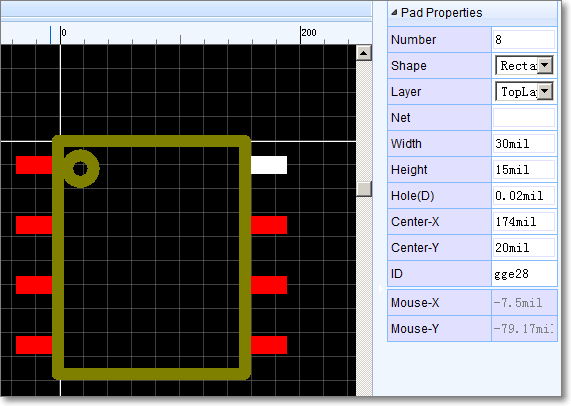
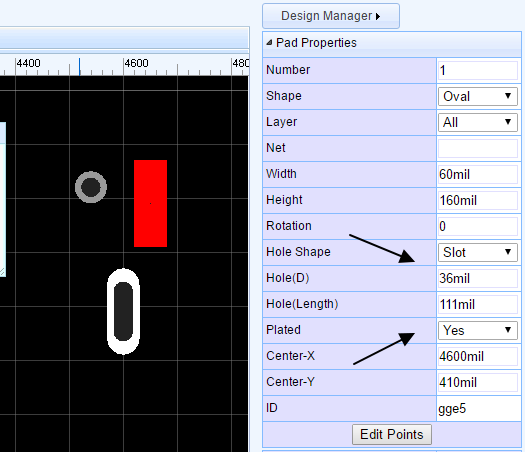
add new v 3.10.x

diff --git a/Tutorial/new-v-3.10.md b/Tutorial/new-v-3.10.md
@@ -1,0 +1,98 @@
+# What is new in the V3.10.X  
+ 
+
+The new version is V3.10.x. EasyEDA has lots of new features in the version. Try it via [https://easyeda.com/editor](https://easyeda.com/editor).
+
+
+![](./images/V3.10.x.png)
+ 
+
+
+
+##Better Mac User Experience 
+Mac users can use Chrome, EasyEDA works better under Chrome than Safari.
+
+**1. Pan**
+ 
+ **When Using Mouse**
+Hold down  the right click and move your mouse, the canvas will be panned.
+If you use the Magic Mouse, You need to enable the right click at first via this video. https://www.youtube.com/watch?v=ekzIoAxXSHE,
+
+**When Using Touchpad **
+ Hold down the `SHIFT` key, then move your one finger, the canvas will pan in horizontal direction.
+ 
+Hold down the `Control` key, then move your one finger, the canvas will pan in  Vertical  direction. 
+
+**2. Zoom in and zoom out**
+
+ **When Using Mouse**
+Scroll your middle button of mouser or Magic mouse.
+
+ **When Using Touchpad **
+Sliding your finger up  zoom in, and sliding down  zoom out.
+
+## New Pad attribute.
+add `Slot ` and `Plated` attributes for pad's hole like bellow image
+![](images/image51.png)
+
+
+## Components 
+The new components will save your lots of time. Press hot key `SHIFT+F`  or click it via toolbar ![](./images/components-button.png) 
+In the new components dialog, it is easy to select the right components via tags, and you can set tags for your components.
+
+### New Dialog
+   When creating a schematic lib, there is an input dialog, you would better to set the sourcing information, such as how to buy it and datasheet. If you don't like to add these information, you can skip this and add these later.
+
+![](./images/newComponent.png) 
+
+
+### New Component attribute
+  EasyEDA adds a `Mounted` attribute at the component, if you don't want to assembly that components, you can set it to `NO` like bellow image. If set `Mounted` to `NO`, we don't list it to the BOM.
+![](./images/mounted.png) 
+
+### Components search dialog
+If you selected the `EasyEDA Components`, you will find a dialog like bellow image.
+ ![](./images/componentsDialog.png) 
+EasyEDA team spend lots of time to build these components/packages, we recommend you to use these components, because we have sent the right packages for you and you can order the components from EasyEDA.  More important, we can solder these components too.
+There are some other categories, you can try to explore. 
+  ![](./images/Component-cat.png) 
+
+
+## New search filter
+ When updating a package, you may want to just  search package/footprint, so you can use the filter. `AXIAL doctype:pcb` the filter doctype:pcb will just search PCB package with the name AXIAL. 
+  `doctype:sch` will help you to just search components without package.
+
+ ![](./images/setpackage.png) 
+ 
+ 
+## Synchronous schematic and PCB
+ You can convert schematic to PCB bellow toolbar, if you modify the schematics and want to update the PCB again, you can click the `update PCB` button. 
+  ![](./images/sy-sch-pcb.png) 
+
+
+ ## Add Frame
+ You can add some design notes at the frame, the good point is it is good to print your schematic if you set the right frame, such as A4 . 
+ ![](./images/frames.png) , the right bottom zone can be drag and select, you can drag and delete the frame.
+
+
+## Hide the simulation button
+EasyEDA's simulation function is powerful, but it is not easy to use. Lot of users run a schematic which can't simulate, such as Wifi modules, MCU, DSP schematics, they never get the right results, then get disappointed, at the same time, waster lots of CPU resource.
+So we hide the simulation button to avoid this, but you can use CTRL+R to run the simulation.
+
+##Desktop version coming soon
+  EasyEDA will provide a desktop version for offline use. 
+
+
+
+Enjoy it, if you have any questions, do let us know.
+
+
+
+ 
+ 
+
+
+
+
+
+ 

diff --git a/Tutorial/PCBOrderFAQ.md b/Tutorial/PCBOrderFAQ.md
@@ -36,10 +36,13 @@ For other numbers of layers or for a different layer stack up, please email us b
 
 ##Copper Weight
   You can select 1oz, 2oz, 3oz in our order page. For other copper weights, please ask us for a quote via email: we can help you to fabricate PCBs with copper weights from 0.5oz to 16oz.
+  
+  1. For 1Oz, the track width and clearance can be 3mil. 
    
-  1. For 2Oz, please make sure the clearance is bigger than 8mil. If the clearance is [5mil, 7.9mil], we will change a bit litter more. bellow 5mil, we can't do for 2Oz, just 1Oz 
+  2. For 2Oz, please make sure the clearance is bigger than 8mil. If the clearance is [5mil, 7.9mil], we will charge a bit litter more. bellow 5mil, we can't do for 2Oz, just 1Oz 
 
-  2. For 3Oz, please make sure the clearance is bigger than 15mil. If the clearance is [7.5mil, 15mil], we will change a bit litter more. bellow 7.4mil, we can't do for 3Oz .
+  3. For 3Oz, please make sure the clearance is bigger than 15mil. If the clearance is [7.5mil, 15mil], we will charge a bit litter more. bellow 7.4mil, we can't do for 3Oz .
+  4. Other copper Weight, please quote before paying.
 
 
 

diff --git a/Tutorial/new.md b/Tutorial/new.md
@@ -88,7 +88,7 @@ The image will be inserted to the active layer, if it is not right, you can chan
 
 
 
-##More Fonts  for PCB
+## More Fonts  for PCB
 From V3.2.x, You can add more fonts from your computer or download some [free fonts](http://www.1001freefonts.com/) .
 
 Select the text, then you can find a Font-family attribute on the right panel like bellow image.
@@ -148,6 +148,7 @@ Right click your parts, you can share symbols and package to EasyEDA system libs
 
 
 ##Delete a Segment from a Track
+
  In lots of other EDA tools, the track is segment line, but in EasyEDA, the track is polyline. some time, if we want to delete a segment, we must delete the whole track and router again. Now we provide a not bad way to do this. Moving your mouse to the segment which you want to delete, click it, then hold the `SHIFT` and **double click it**. the segment will be removed.
 
 ![](./images/deleteSegment.png)

diff --git a/Open-File-Format/PCB.md b/Open-File-Format/PCB.md
@@ -298,16 +298,16 @@ ARC's attributes and image looks like bellow image:
 
 ###PAD
 
-	"PAD~ELLIPSE~275~275~6~6~11~~1~1.8~~0~gge52"
+	"PAD~OVAL~814~371~6~16~11~~1~1.8~814 366 814 376~0~gge5~11~814 374.7 814 367.3~N"
 
 **Format:**
 
 1. command: PAD
-2. shape: ELLIPSE/RECT
-3. center x: 275
-4. center y: 275
+2. shape: ELLIPSE/RECT/OVAL/POLYGON
+3. center x: 814
+4. center y: 371
 5. width: 6 (60 mil)
-6. height: 6 (60 mil)
+6. height: 16 (160 mil)
 7. layer id: 11 (All)
 8. net: ''
 9. number: 1
@@ -315,8 +315,10 @@ ARC's attributes and image looks like bellow image:
 11. points: '' (ELLIPSE = '', RECT = outline points)
 12. rotation: 0 [0 - 360]
 13. id: gge19
+14. Hole(Length): 11 (110mil)
+15. Hole Points: 814 374.7 814 367.3 // slot hole from to point
+16. Plated:Y/N 
 14. locked:null
-
 
 PAD's attributes and image looks like bellow image:
 ![](./images/PAD.png)

diff --git a/Tutorial/PCBLib.md b/Tutorial/PCBLib.md
@@ -18,7 +18,7 @@ Selecting one of the pads, you can view and adjust it’s attributes in the rig
 
 **Number:** Remembering the pin numbers you set in the schematic symbol in your Schematic Lib: to connect those schematic symbol pins to the pads in your PCB footprint, the pad numbers you set here in the PCB Lib footprint must be the same.
 
-**Shape:** Round or Rectanglular
+**Shape:** Round , Rectanglular and  OVAL
 
 **Layer:** If the pads are part of a **SMD** footprint, you can set it to **Top layer** or **Bottom layer**. For through hole components you should set it to **All**.
 
